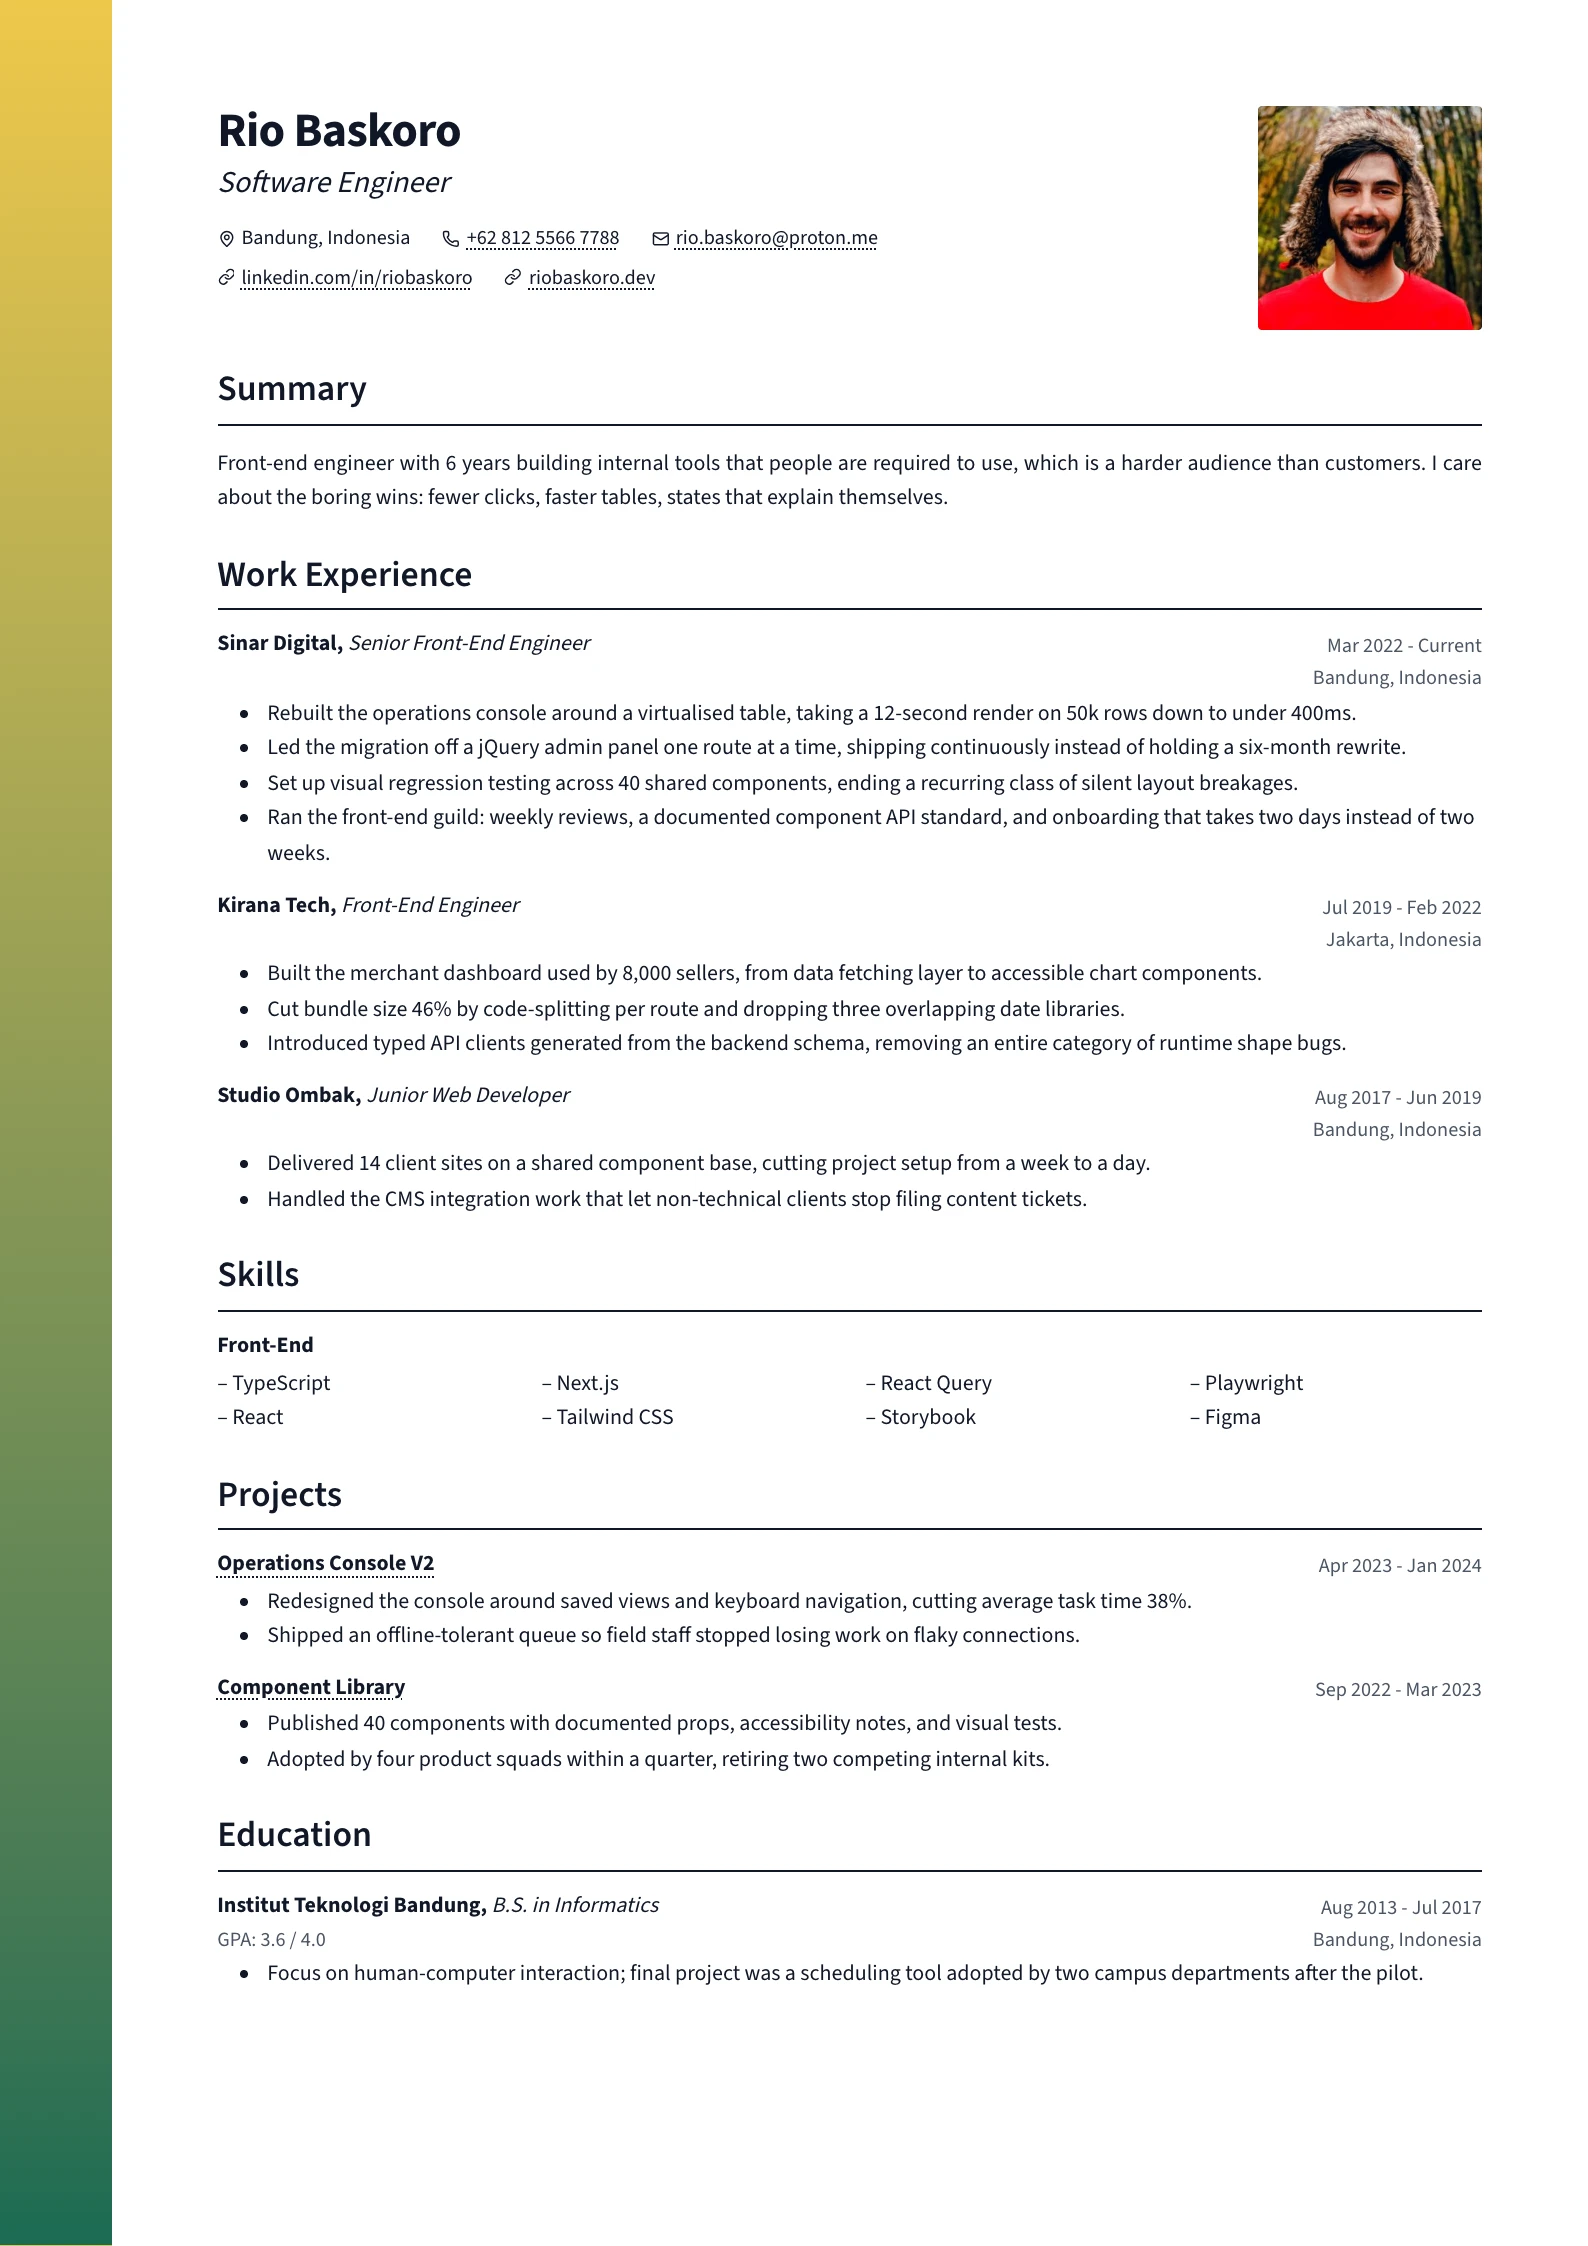
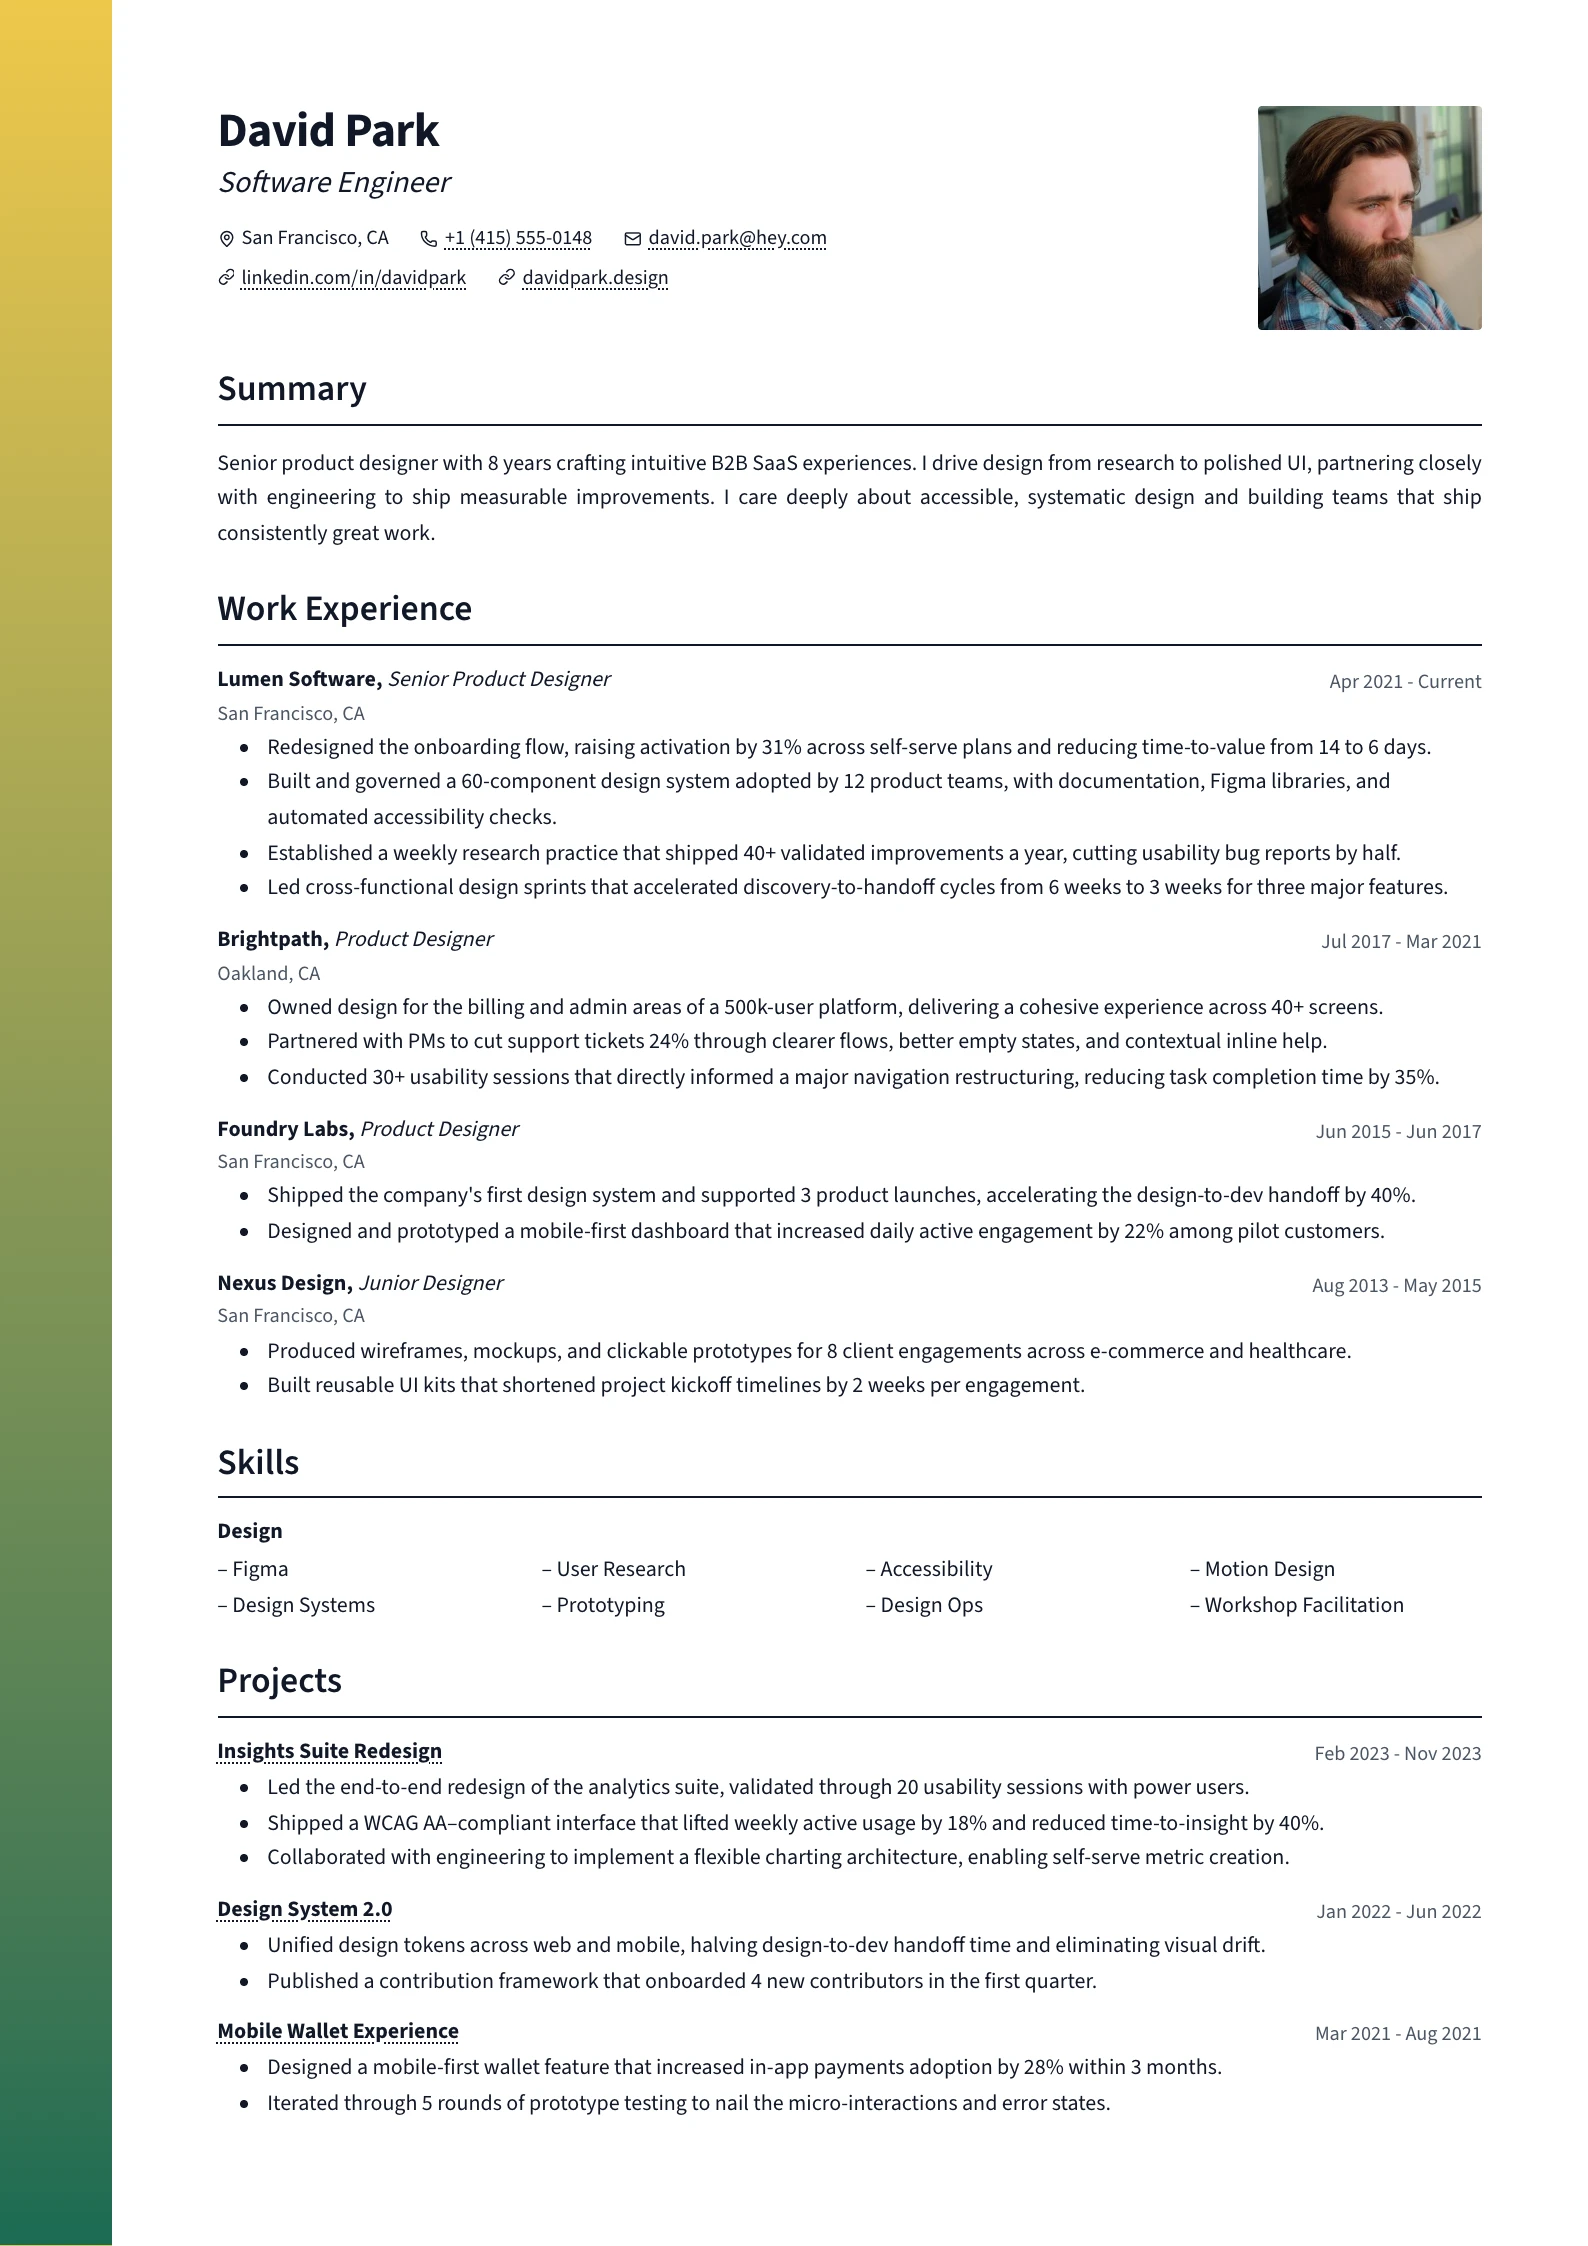
Range every field so no right-hand line sits against an empty row
The place was ranged right under the date, but the title beside it is a single
line, so the place sat against nothing and read as a stray in the margin. It now
reads down the left under the title. All three sections that carry one override
the canonical view: work experience, education, and organizations &
volunteering.

The GPA crosses the other way. Kept on the left it would have paired with the
place and left the right column a lone date; on the right it pairs with the
place. Education now reads title over place against date over GPA.

Audited the rest of what meridian renders: projects, publications and awards
range only a date, against a title that is always there; certifications,
languages, skills and references have no right column at all. Nothing else to
move.

Verified: pnpm e2e:pagebreak all clear, pnpm test 460, screenshots regenerated.

Claude-Session: https://claude.ai/code/session_017SE4GH7p4cmenyyff5PHY5

diff --git a/src/features/resume-editor/preview/layouts/meridian/items.tsx b/src/features/resume-editor/preview/layouts/meridian/items.tsx
@@ -8,17 +8,41 @@ import type { SectionItem } from "@/features/resume-editor/preview/descriptors/t
 import type { LayoutSectionItemMap } from "@/features/resume-editor/preview/layout-types";
 
 /** Employer leads, role follows in italic — the reverse of marquee, and the way
- * the reference sets it. Date over place, both ranged right. */
+ * the reference sets it.
+ *
+ * The place sits on the left, under the title, not stacked under the date on the
+ * right: the title is one line, so a second right-hand line had nothing beside
+ * it and read as a stray in the margin. Only the date is ranged right, and it
+ * always has the title line to sit against. */
 function WorkExperienceItem({ item }: { item: SectionItem<"workExperience"> }) {
   return (
     <div className="item">
       <div className="item-header">
         <div className="item-header-main">
           <TitleWithSubject title={item.companyName} subject={item.position} />
+          {item.location ? <div className="meta">{item.location}</div> : null}
+        </div>
+        <ItemDate>{renderDateRange(item.startDate, item.endDate)}</ItemDate>
+      </div>
+      <PreviewRichTextBlock content={item.description} />
+    </div>
+  );
+}
+
+/** Same split, and the GPA crosses the other way. The right column now reads
+ * date over GPA against title over place: every right-hand line has a left-hand
+ * line to sit against, which is the whole rule this layout follows. */
+function EducationItem({ item }: { item: SectionItem<"education"> }) {
+  return (
+    <div className="item">
+      <div className="item-header">
+        <div className="item-header-main">
+          <TitleWithSubject title={item.name} subject={item.degree} />
+          {item.location ? <div className="meta">{item.location}</div> : null}
         </div>
         <div className="item-header-side">
           <ItemDate>{renderDateRange(item.startDate, item.endDate)}</ItemDate>
-          {item.location ? <div className="meta">{item.location}</div> : null}
+          {item.gpa ? <div className="meta">GPA: {item.gpa}</div> : null}
         </div>
       </div>
       <PreviewRichTextBlock content={item.description} />
@@ -26,18 +50,22 @@ function WorkExperienceItem({ item }: { item: SectionItem<"workExperience"> }) {
   );
 }
 
-function EducationItem({ item }: { item: SectionItem<"education"> }) {
+/** The third and last section carrying a place. The canonical view ranges it
+ * right under the date; here every place reads down the left edge. */
+function OrganizationVolunteeringItem({
+  item,
+}: {
+  item: SectionItem<"organizationVolunteering">;
+}) {
   return (
     <div className="item">
       <div className="item-header">
         <div className="item-header-main">
-          <TitleWithSubject title={item.name} subject={item.degree} />
-          {item.gpa ? <div className="meta">GPA: {item.gpa}</div> : null}
-        </div>
-        <div className="item-header-side">
-          <ItemDate>{renderDateRange(item.startDate, item.endDate)}</ItemDate>
+          <h3 className="item-title">{item.position}</h3>
+          <div className="meta">{item.organizationName}</div>
           {item.location ? <div className="meta">{item.location}</div> : null}
         </div>
+        <ItemDate>{renderDateRange(item.startDate, item.endDate)}</ItemDate>
       </div>
       <PreviewRichTextBlock content={item.description} />
     </div>
@@ -91,4 +119,5 @@ export const meridianItemViews: LayoutSectionItemMap = {
   skills: SkillsItem,
   certifications: CertificationsItem,
   languages: LanguagesItem,
+  organizationVolunteering: OrganizationVolunteeringItem,
 };

diff --git a/src/features/resume-editor/preview/layouts/meridian/styles.module.css b/src/features/resume-editor/preview/layouts/meridian/styles.module.css
@@ -79,9 +79,14 @@
   gap: 0 var(--resume-gap-item);
 }
 
+/* The right column never wraps — the title column is the flexible one and gives
+   way instead. It holds only the date, except in Education, where the GPA sits
+   under it against the place on the left. */
+.layout :global(.item-header > .item-date),
 .layout :global(.item-header-side) {
   gap: 0;
   white-space: nowrap;
+  text-align: right;
 }
 
 .layout :global(.item) {

diff --git a/src/features/resume-editor/preview/layouts/meridian/README.md b/src/features/resume-editor/preview/layouts/meridian/README.md
@@ -27,7 +27,8 @@ a grey band across the rail.
 - **The rail** — `7%` of the paper width, bleeding to the top, left and bottom edges of every sheet. It cannot be a child element: that paints one strip down the whole stack, and the page-break markers are editor-only chrome, so there is nothing per-page to hang one on. It is one background layer tiled to exactly one `--resume-paper-height` and repeated down the page. Reading the paper height rather than a fixed millimetre keeps it correct at A4, Letter and JIS B5 alike.
 - **Header** — name (`0.95 × h1`, bold) over an italic role (`0.6 × h1`), the reach beneath in two iconed rows, and a `112px` square photo ranged right. The photo is sized to land level with the foot of the identity block; taller, and it opens a gap under the contacts that reads as a broken margin.
 - **Section headings** — `1.3 × h2`, semibold, title case, with a `1.5px` `border-bottom` in the text colour. A real border on the heading rather than a separate element, so the rule can never drift out of alignment with the words it belongs to.
-- **Items** — employer bold, comma, role italic, all on the title line (`TitleWithSubject`, shared with marquee, which puts them the other way round). Date over place ranged right; the description hangs at `--resume-indent` so it stays tied to its own entry once several stack up.
+- **Items** — employer bold, comma, role italic, all on the title line (`TitleWithSubject`, shared with marquee, which puts them the other way round). The description hangs at `--resume-indent` so it stays tied to its own entry once several stack up.
+- **Every right-hand line has a left-hand line to sit against.** That is the rule the item views follow, and it decides where each field goes. The **place** always reads down the left, under the title — ranged right it sat beside an empty title row and read as a stray in the margin (work experience, education and organizations all carry one, so all three override the canonical view). The **GPA** goes the other way, to the right under the date, where it pairs with the place on the left.
 - **Skills** — every group takes the full row: a bold heading, then its own terms flowing beneath it across `columns: 12ch 4`. That reads as "at most four columns, each at least 12ch", so a long certification-style term drops the count to three or two rather than being hyphenated to shreds in an eight-character column. The dash hang is on the `li`, not the `ul` — list padding applies to the whole multi-column box, so it would indent only the first column and let every later dash fall into a gutter.
 - **Certificates** and **languages** — one running line each, bullet-separated by a CSS `::after` so the separator never leads a wrapped line or lands in a paste. Languages keep the bold name and a parenthesised level; certificates read as prose.
 - **Link cue** — `underline dotted`. Item titles inherit it rather than grading down further: a title here is bold body text, not the display type it is in a badge layout.
